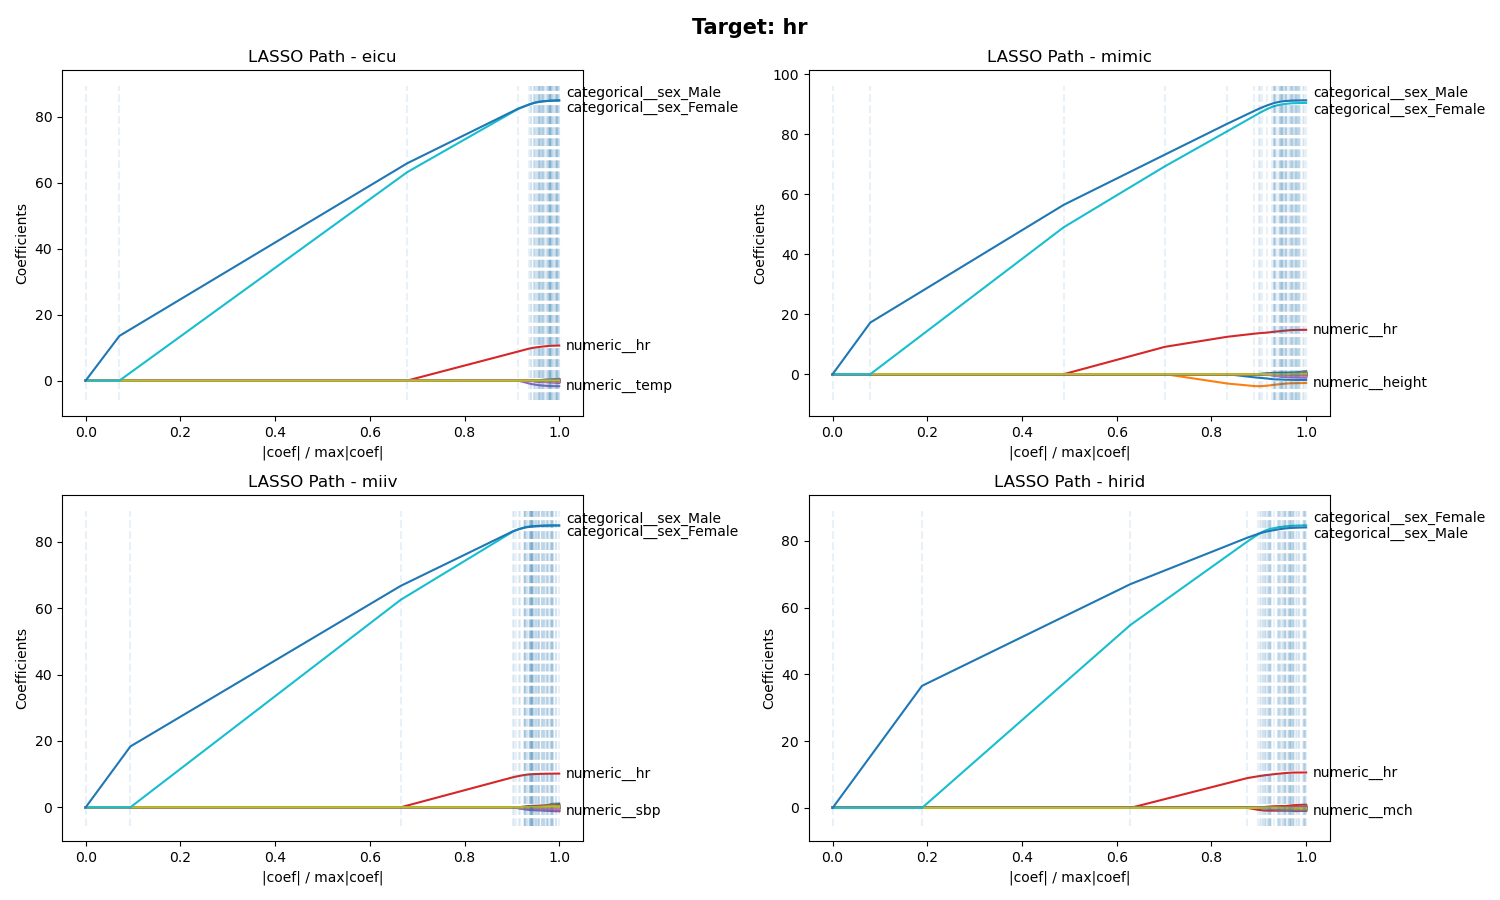
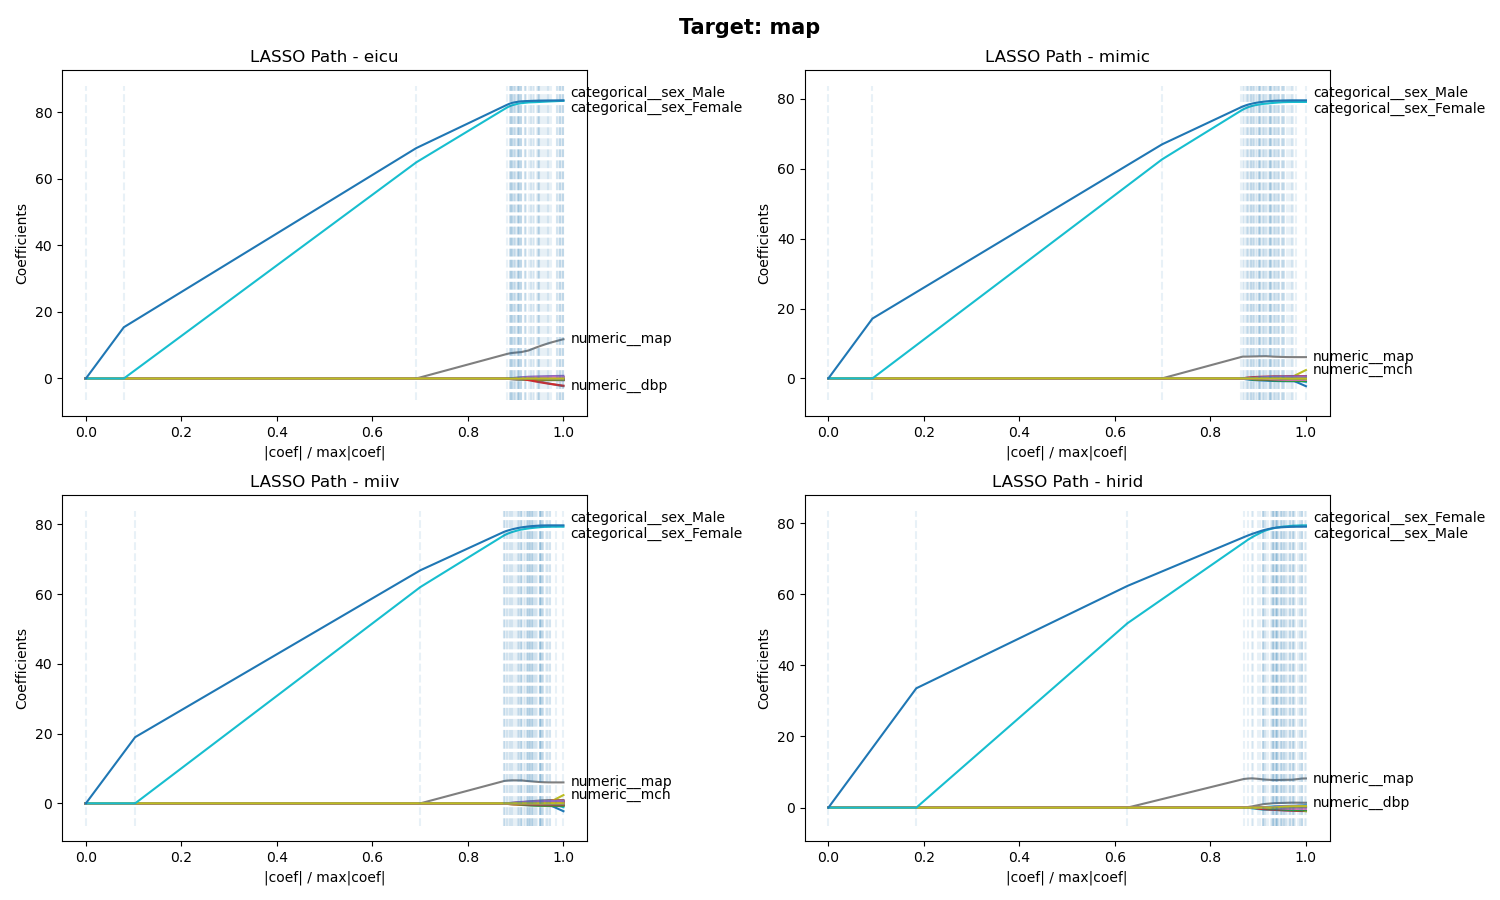
post malte

diff --git a/Feature Selection/profiles.py b/Feature Selection/profiles.py
@@ -2,11 +2,9 @@
     The names of the four most important features are included in the plot.
     A figure containing the profiles on each data source will be shown at the end. Moreover, the profiles are shown when we 
     use all data sources at once. 
-
     
 Tue: 
-Do preprocessing before DSL estimation. Can I do so (look in DSL paper).
-understand code, interpret pictures, prepare for Malte (How are plots calculated??)
+understand code, interpret pictures, prepare for Malte
 
 Wed: 
 Look at the different targets (i.e which might be interesting when considering sepsis?). 
@@ -31,11 +29,11 @@ from preprocessing import make_feature_preprocessing
 from constants import CATEGORICAL_COLUMNS
 from icu_experiments.load_data import load_data_for_prediction
 
-outcome = 'hr'
+outcome = 'map'
 method = 'lasso'
 
 data = load_data_for_prediction(outcome=outcome)
-_Xydata = {source: data[source]['train'][lambda x: (x['sex'].eq('Male'))|(x['sex'].eq('Female'))] for source in ['eicu', 'mimic', 'miiv', 'hirid']}
+_Xydata = {source: data[source]['train'][lambda x: (x['sex'].isin(['Male', 'Female']))] for source in ['eicu', 'mimic', 'miiv', 'hirid']}
 
 Preprocessor = ColumnTransformer(
     transformers=make_feature_preprocessing(missing_indicator=False)
@@ -48,7 +46,7 @@ for i, source in enumerate(['eicu', 'mimic', 'miiv', 'hirid', 'all']):
     if source == 'all': 
         fig.suptitle(f"Target: {outcome}", fontweight='bold', fontsize=15)
         plt.tight_layout()  # Adjust the layout
-        plt.savefig(f"images/{source}_lasso_path_incl_sex")
+        plt.savefig(f"images/Lasso/{source}_lasso_path_incl_sex")
         plt.show()
         plt.close()
         fig, ax = plt.subplots(figsize=(15,9))
@@ -63,9 +61,10 @@ for i, source in enumerate(['eicu', 'mimic', 'miiv', 'hirid', 'all']):
     
     _y = _Xytrain["outcome"]
     _Xtrain = Preprocessor.fit_transform(_Xytrain)
+    y_mean = _y.mean()
 
     print(f"Computing regularization path using the LARS on {source} ...")
-    alphas, active, coefs = lars_path(_Xtrain.values, _y.values, method=method, verbose=True)
+    alphas, active, coefs = lars_path(_Xtrain.to_numpy(), _y.to_numpy()-y_mean, method=method, verbose=True)
 
     xx = np.sum(np.abs(coefs.T), axis=1)
     xx /= xx[-1]
@@ -86,7 +85,7 @@ for i, source in enumerate(['eicu', 'mimic', 'miiv', 'hirid', 'all']):
     else:
         feature_indices = np.argsort(np.abs(coefs[:, -1]))[-4:]
 
-    print(f'Four most important features on {source}: {[list(_Xtrain.columns)[i] for i in np.argsort(np.abs(coefs[:, -1]))[-4:]]}')
+    print(f'Four most important features on {source}: {[list(_Xtrain.columns)[i] for i in np.argsort(np.abs(coefs[:, -1]))[-6:]]}')
     # Assuming you have a way to map these indices to original feature names
     feature_names = [list(_Xtrain.columns)[i] for i in feature_indices]
 
@@ -133,5 +132,5 @@ for i, source in enumerate(['eicu', 'mimic', 'miiv', 'hirid', 'all']):
 
 fig.suptitle(f"Target: {outcome}", fontweight='bold', fontsize=15)
 plt.tight_layout()  # Adjust the layout
-plt.savefig("images/data_sources_lasso_path_incl_sex.png")
+plt.savefig("images/Lasso/data_sources_lasso_path_incl_sex.png")
 plt.show()

diff --git a/Feature Selection/DSL_profiles.py b/Feature Selection/DSL_profiles.py
@@ -22,7 +22,7 @@ from preprocessing import make_feature_preprocessing
 from constants import CATEGORICAL_COLUMNS
 from icu_experiments.load_data import load_data_for_prediction
 
-outcome = 'hr'
+outcome = 'map'
 method = 'lasso'
 
 data = load_data_for_prediction(outcome=outcome)
@@ -36,7 +36,11 @@ Preprocessor = ColumnTransformer(
 _Xytrain = pd.concat([_Xydata[source] for source in ['eicu', 'mimic', 'miiv', 'hirid']], ignore_index=True)
 
 _ytrain = _Xytrain['outcome']
+y_mean = _ytrain.mean()
 _Xtrain = Preprocessor.fit_transform(_Xytrain)
+'''
+_Xtrain = pd.concat([Preprocessor.fit_transform(_Xydata[source]) for source in ['eicu', 'mimic', 'miiv', 'hirid']], ignore_index=True)
+_Xtrain.fillna(0, inplace=True)'''
 
 interactions = ColumnTransformer(
     [
@@ -88,7 +92,7 @@ for column in _Xtrain_augmented.columns:
 
 
 print(f"Computing regularization path using LARS on DSL ...")
-alphas, active, coefs = lars_path(_Xtrain_augmented.values, _ytrain.values, method=method, verbose=True)
+alphas, active, coefs = lars_path(_Xtrain_augmented.to_numpy(), _ytrain.to_numpy() - y_mean, method=method, verbose=True)
 
 coefs_shared = coefs[:51, :]
 
@@ -113,7 +117,7 @@ ax.axis("tight")
 
 fig.suptitle(f"Target: {outcome}", fontweight='bold', fontsize=15)
 plt.tight_layout()  # Adjust the layout
-plt.savefig('images/common_effects_DSL.png')
+plt.savefig('images/common_effects_DSL_preprocessed_individ.png')
 plt.show()
 plt.close()
 
@@ -145,5 +149,5 @@ for i, source in enumerate(['eicu', 'mimic', 'miiv', 'hirid']):
 
 fig.suptitle(f"Target: {outcome}", fontweight='bold', fontsize=15)
 plt.tight_layout()  # Adjust the layout
-plt.savefig('images/individual_groups_DSL.png')
+plt.savefig('images/individual_groups_DSL_preprocessed_individ.png')
 plt.show()

diff --git a/Feature Selection/constants.py b/Feature Selection/constants.py
@@ -49,7 +49,7 @@ NUMERICAL_COLUMNS = [
     "wbc",
     "weight",
 ]
-CATEGORICAL_COLUMNS = ['sex', 'source']
+CATEGORICAL_COLUMNS = ['sex']
 ANCHOR_COLUMNS = ["source"]  # , "source"]
 
 LOG_COLUMNS = [

diff --git a/Feature Selection/features.md b/Feature Selection/features.md
@@ -1,15 +1,44 @@
-Lasso profiles: 
+*HR*
 
-    Four most important features on eicu: ['numeric__sbp', 'numeric__na', 'numeric__temp', 'numeric__hr']
-    Four most important features on mimic: ['numeric__temp', 'numeric__age', 'numeric__height', 'numeric__hr']
-    Four most important features on miiv: ['numeric__map', 'numeric__mch', 'numeric__sbp', 'numeric__hr']
-    Four most important features on hirid: ['numeric__sbp', 'numeric__ckmb', 'numeric__mch', 'numeric__hr']
-    Four most important features on all: ['numeric__na', 'numeric__temp', 'numeric__height', 'numeric__hr']
+Lasso profiles without sex: 
 
-DSL profiles: (No categorical in individual effects after preprocessing?)
+    Six most important features on eicu: ['numeric__sbp', 'numeric__na', 'numeric__temp', 'numeric__hr', 'categorical__sex_Female', 'categorical__sex_Male']
+    Six most important features on mimic: ['numeric__temp', 'numeric__age', 'numeric__height', 'numeric__hr', 'categorical__sex_Female', 'categorical__sex_Male']
+    Six most important features on miiv: ['numeric__map', 'numeric__mch', 'numeric__sbp', 'numeric__hr', 'categorical__sex_Male', 'categorical__sex_Female']
+    Six most important features on hirid: ['numeric__sbp', 'numeric__ckmb', 'numeric__mch', 'numeric__hr', 'categorical__sex_Male', 'categorical__sex_Female']
+    Six most important features on all: ['numeric__na', 'numeric__temp', 'numeric__height', 'numeric__hr', 'categorical__sex_Female', 'categorical__sex_Male']
+
+DSL profiles incl. sex: (preprocessed all at once)
 
     common effects:  ['numeric__temp', 'numeric__hr', 'categorical__sex_Female', 'categorical__sex_Male']
     eicu effects:  ['eicu numeric__po2', 'eicu numeric__alb', 'eicu numeric__temp', 'eicu numeric__fio2']
     mimic effects:  ['mimic numeric__dbp', 'mimic numeric__map', 'mimic numeric__age', 'mimic numeric__height']
     miiv effects:  ['miiv numeric__sbp', 'miiv numeric__map', 'miiv numeric__mcv', 'miiv numeric__mch']
     hirid effects:  ['hirid numeric__dbp', 'hirid categorical__sex_Male', 'hirid numeric__bun', 'hirid numeric__mch']
+
+DSL profiles incl. sex: (preprocessed all individually)
+    common effects:  ['numeric__temp', 'numeric__hr', 'categorical__sex_Male', 'categorical__sex_Female']
+    eicu effects:  ['eicu numeric__ph', 'eicu numeric__bun', 'eicu numeric__fio2', 'eicu numeric__temp']
+    mimic effects:  ['mimic numeric__height', 'mimic numeric__hr', 'mimic categorical__sex_Female', 'mimic categorical__sex_Male']
+    miiv effects:  ['miiv numeric__sbp', 'miiv numeric__mcv', 'miiv numeric__map', 'miiv numeric__mch']
+    hirid effects:  ['hirid numeric__ckmb', 'hirid numeric__alt', 'hirid numeric__mch', 'hirid categorical__sex_Male']
+
+
+*MAP* 
+
+Lasso profiles: 
+    
+    Six most important features on eicu: ['numeric__temp', 'numeric__sbp', 'numeric__dbp', 'numeric__map', 'categorical__sex_Female', 'categorical__sex_Male']
+    Six most important features on mimic: ['numeric__mchc', 'numeric__mcv', 'numeric__mch', 'numeric__map', 'categorical__sex_Female', 'categorical__sex_Male']
+    Six most important features on miiv:  ['numeric__mchc', 'numeric__mcv', 'numeric__mch', 'numeric__map', 'categorical__sex_Female', 'categorical__sex_Male']
+    Six most important features on hirid: ['numeric__hr', 'numeric__mch', 'numeric__dbp', 'numeric__map', 'categorical__sex_Male', 'categorical__sex_Female']
+    Six most important features on all: ['numeric__temp', 'numeric__dbp', 'numeric__sbp', 'numeric__map', 'categorical__sex_Female', 'categorical__sex_Male']
+
+
+DSL profiles incl sex: (preprocessed all at once)
+
+    common effects: ['numeric__resp', 'numeric__map', 'categorical__sex_Female', 'categorical__sex_Male']
+    eicu effects: ['eicu numeric__sbp', 'eicu categorical__sex_Female', 'eicu numeric__dbp', 'eicu numeric__map']
+    mimic effects: ['mimic numeric__be', 'mimic numeric__mchc', 'mimic numeric__mcv', 'mimic numeric__mch']
+    miiv effects: ['miiv numeric__bicar', 'miiv numeric__mchc', 'miiv numeric__mcv', 'miiv numeric__mch']
+    hirid effects: ['hirid numeric__mchc', 'hirid categorical__sex_Male', 'hirid numeric__mch', 'hirid categorical__sex_Female']
